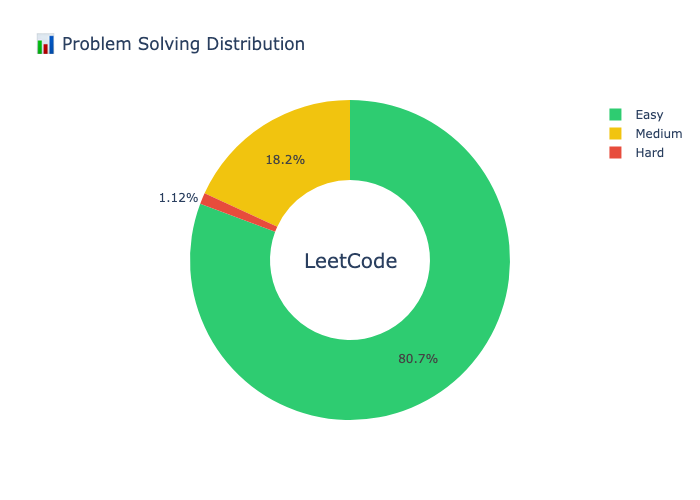
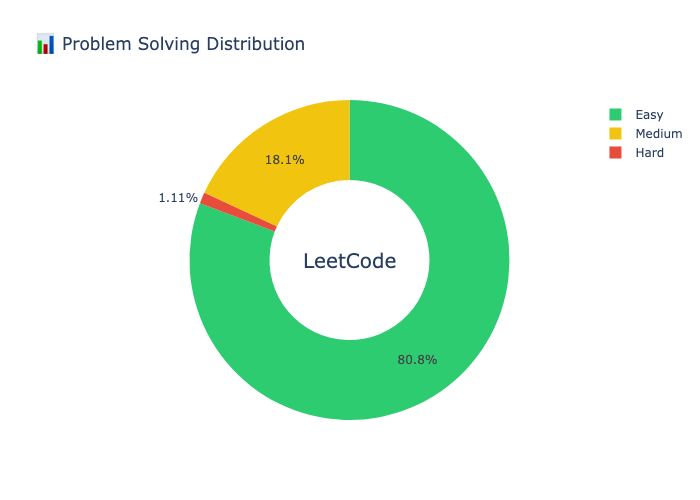
fixed automation process error

diff --git a/README.md b/README.md
@@ -11,18 +11,18 @@ Welcome to my repository, where I document my journey of solving coding challeng
 
 ## 🚀 Contest Performance  
 - **Contest Rating**: N/A  
-- **Global Ranking**: 275108 / N/A  
+- **Global Ranking**: 275677 / N/A  
 - **Contests Attended**: 1  
 - **Top Rank Achieved**: N/A%  
 
 ---
 
 ## 💡 Problem-Solving Stats  
-- **Acceptance Rate**: 36.11%  
+- **Acceptance Rate**: 36.13%  
 |----------------|---------------------|---------------------|----------------|  
-| 🟢 Easy        | 289 / 883          | 36.11%              |
-| 🟡 Medium      | 65 / 1871         | 36.11%             |
-| 🔴 Hard        | 4 / 846            | 36.11%             |
+| 🟢 Easy        | 290 / 884          | 36.13%              |
+| 🟡 Medium      | 65 / 1874         | 36.13%             |
+| 🔴 Hard        | 4 / 847            | 36.13%             |
 
 ---
 
@@ -71,20 +71,20 @@ Welcome to my repository, where I document my journey of solving coding challeng
 
 ## 🚀 Contest Performance  
 - **Contest Rating**: N/A  
-- **Global Ranking**: 275108 / N/A  
+- **Global Ranking**: 275677 / N/A  
 - **Contests Attended**: 1  
 - **Top Rank Achieved**: N/A%  
 
 ---
 
 ## 💡 Problem-Solving Stats  
-- **Acceptance Rate**: 36.11%  
+- **Acceptance Rate**: 36.13%  
 
 | Difficulty | Solved / Total | Acceptance Rate |
 |------------|----------------|-----------------|
-| 🟢 Easy        | 289 / 883          | 36.11%              |
-| 🟡 Medium      | 65 / 1871         | 36.11%             |
-| 🔴 Hard        | 4 / 846            | 36.11%             |
+| 🟢 Easy        | 290 / 884          | 36.13%              |
+| 🟡 Medium      | 65 / 1874         | 36.13%             |
+| 🔴 Hard        | 4 / 847            | 36.13%             |
 
 --
 
